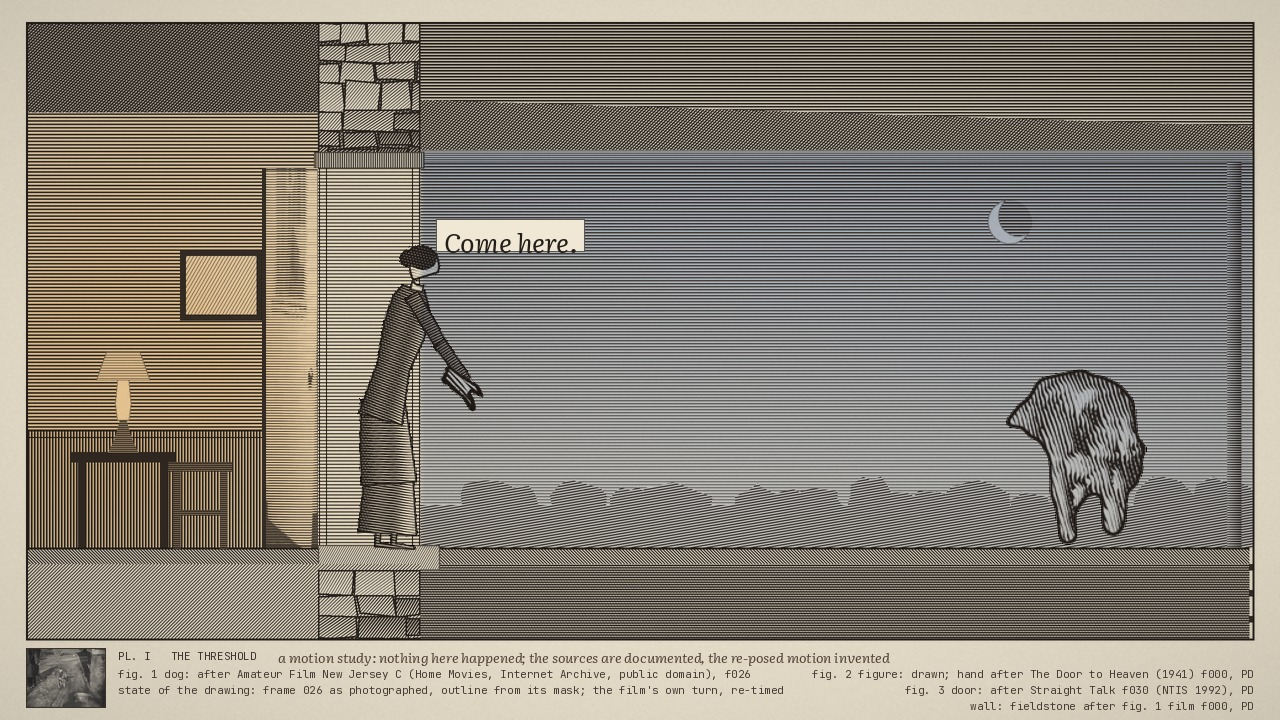
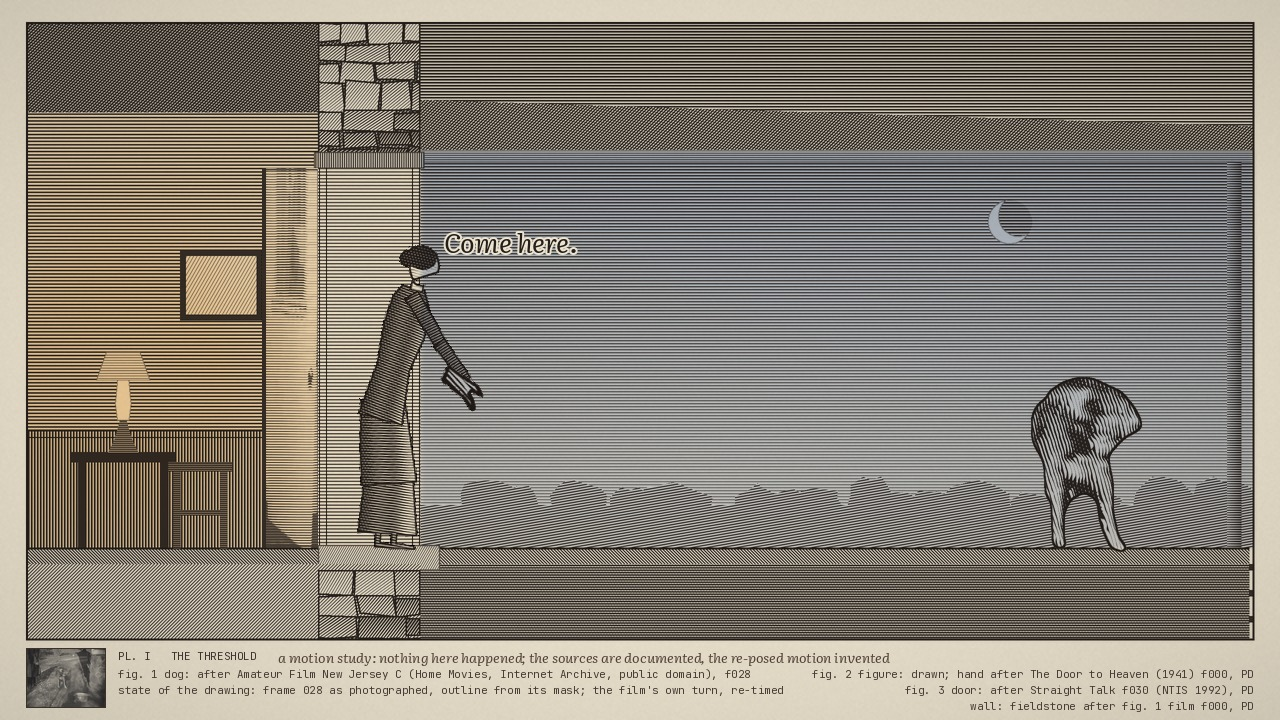
PAE-02 · SCION 29: critic round 1 (does not pass); repairs sent back
Claude-Session: https://claude.ai/code/session_01NnogCfjFXeRgpEGgKH3eVT

Changed region(s): [[0.7812, 0.5194, 0.9062, 0.7639], [0.3438, 0.3056, 0.4688, 0.3667]]

diff --git a/paeleo/handmade/29-grabcut/reviews/round1.md b/paeleo/handmade/29-grabcut/reviews/round1.md
@@ -1,0 +1,16 @@
+# SCION 29 · critic round 1 · DOES NOT PASS
+
+Independent critic (fresh agent; frames every 0.5 s plus every frame in the turn windows and zooms; verdict from the picture before any builder notes).
+
+Per choice: backing away reads (a head-low drawing facing the house moves away from 1.00); turned back reads, the turn weak (front-on frames read; 3.75–3.79 a muddled blob; faces away from 3.83, lies facing away 4.6–7.4); turning to look weak (on time, but the head looks pasted onto the shoulder facing up-left 7.46–8.12, a second head; a straight seam and a dark rectangular gap across the torso at 7.83); coming head low reads (the archive walk re-timed, head below the back the whole way, feet accounting for the travel); lying across the sill weak (a one-frame standing pop at 23.81; the composed lie floats with a hard horizontal box edge under the torso and hind legs hanging as separate pieces, more crouch than lie; head and forelegs over the lit sill, rump outside); looking in and staying reads (a back-of-head piece into the lit opening 26.5–28.1, in depth). Not a dog in every frame.
+
+Language: bottom-up: its own graph cuts, a clean plate of the porch, RGBA pieces with contour and failure masks; the lying dog assembled from cut parts; fundamentally different from PAE-00. Weakness: much of the screen time is replayed archive footage.
+
+Defects: a boxy rectangular hindquarter on the watching drawing (on screen ~9 s); dark rectangular holes and straight seams in the composed lie (background islands, against the bar's source-edge fidelity); a light 1–2 px rim on every cut and staircasing from the upscaled source; the dog small and low-contrast 0–14 s; footfalls at room-tone level. Soft voice ≥12 dB under the calls. Rights clean.
+
+Repair conditions (ranked):
+1. Composed lie 4.6–7.4 and 24–32: no rectangular notches or straight seams at 1280×720; belly and hindquarters on the floor, no hanging leg pieces.
+2. Look-back 7.46–8.4: a single head turning from the body toward the door, no pasted second head, no torso seam.
+3. Watching drawing: a true contour for the hindquarter, no straight edge longer than ~10 px.
+4. 3.75–3.79 and 23.81: no muddled or popped frame.
+5. Remove or isolate the light rim on every cut; raise the dog's contrast 0–14 s.
